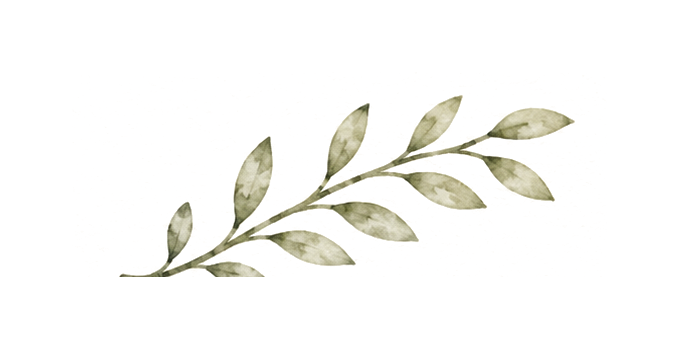
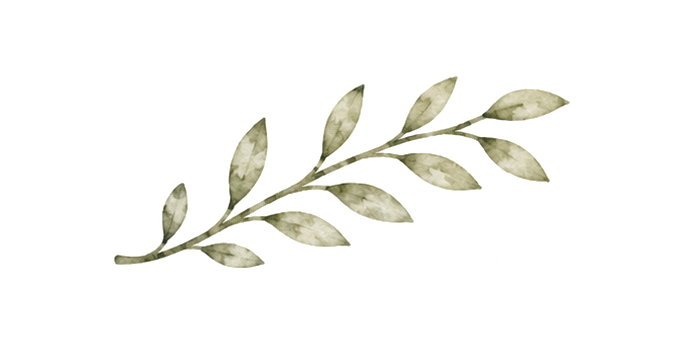
Add files via upload

Changed region(s): [[0.1546, 0.2006, 0.866, 0.8023]]

diff --git a/index.html b/index.html
@@ -1,5 +1,5 @@
 <!doctype html>
-<!-- Priya Bhatia Art Studio · v0.15 -->
+<!-- Priya Bhatia Art Studio · v0.17 -->
 <html lang="en">
 <head>
   <meta charset="utf-8">
@@ -39,7 +39,7 @@
   <main id="main">
     <section class="hero-wrap" id="home">
       <img class="hero-ornament hero-ornament--green" src="assets/olive-sprig-left.png" alt="" aria-hidden="true">
-      <img class="hero-ornament hero-ornament--rose" src="assets/rose-branch-left.png" alt="" aria-hidden="true">
+      <img class="hero-ornament hero-ornament--rose" src="assets/rose-branch-right.png" alt="" aria-hidden="true">
 
       <div class="hero section-shell">
         <div class="hero-copy reveal">
@@ -86,7 +86,7 @@
     </section>
 
     <section class="about-wrap" id="about">
-      <img class="about-ornament" src="assets/olive-sprig-angled-right.png" alt="" aria-hidden="true">
+      <img class="about-ornament" src="assets/olive-sprig-angled-left.png" alt="" aria-hidden="true">
       <div class="about section-shell">
         <div class="about-panel reveal">
           <p class="eyebrow">The artist</p>

diff --git a/styles.css b/styles.css
@@ -796,3 +796,38 @@ h3 { font-size: 1.6rem; margin-bottom: .15rem; }
     opacity: .14;
   }
 }
+
+
+/* v0.17 — approved ornament asset swap + restored margin placement */
+.hero-ornament--green {
+  width: clamp(300px, 28vw, 430px);
+  top: -2.8rem;
+  right: -4.25rem;
+  opacity: .44;
+}
+
+.hero-ornament--rose {
+  width: clamp(250px, 23vw, 350px);
+  left: -3.8rem;
+  bottom: -1.35rem;
+  opacity: .28;
+}
+
+.about-ornament {
+  width: clamp(250px, 24vw, 390px);
+  left: -5.75rem;
+  top: 50%;
+  opacity: .22;
+}
+
+@media (max-width: 980px) {
+  .hero-ornament--green { width: min(42vw, 320px); right: -3.25rem; top: -2rem; opacity: .32; }
+  .hero-ornament--rose { width: min(32vw, 235px); left: -2.75rem; bottom: -.5rem; opacity: .24; }
+  .about-ornament { width: min(28vw, 220px); left: -3.5rem; opacity: .18; }
+}
+
+@media (max-width: 620px) {
+  .hero-ornament--green { width: 150px; right: -1.5rem; top: -.75rem; opacity: .14; }
+  .hero-ornament--rose { width: 130px; left: -1.25rem; bottom: .25rem; opacity: .12; }
+  .about-ornament { display: none; }
+}
